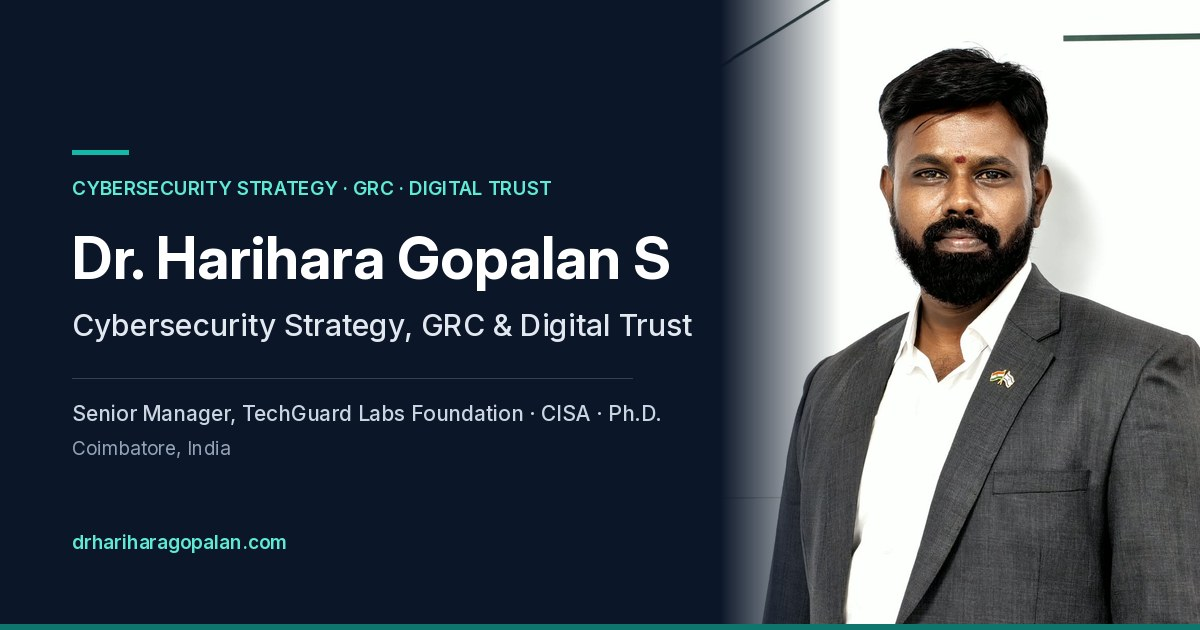
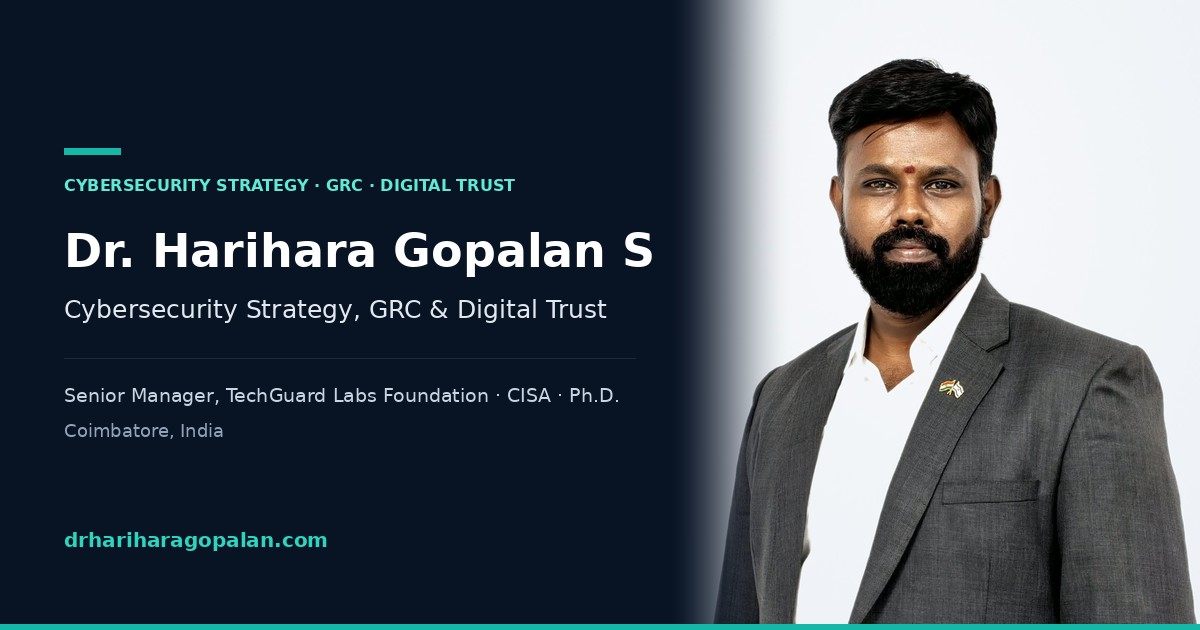
Use plain studio portrait backdrop and recent OWASP chapter guest photo

diff --git a/src/data/profile.ts b/src/data/profile.ts
@@ -200,7 +200,7 @@ export const EDUCATION = [
   { degree: 'B.Tech, Information Technology', specialization: 'Information Technology', institution: 'Sri Ramakrishna Engineering College', years: '2001 – 2004' },
 ];
 
-export type EventRole = 'Industry Representative' | 'Industry Delegate' | 'Speaker' | 'Operations Leadership';
+export type EventRole = 'Valedictory Guest' | 'Industry Representative' | 'Industry Delegate' | 'Speaker' | 'Operations Leadership' | 'Host Team';
 
 export interface IndustryEvent {
   name: string;
@@ -218,36 +218,18 @@ export interface IndustryEvent {
 // Roles are stated exactly — attendee/representative roles are never presented as keynotes.
 export const INDUSTRY_EVENTS: IndustryEvent[] = [
   {
-    name: 'Israel Cyber Day @ Bangalore',
-    date: '7 May 2026',
-    host: 'Four Seasons Embassy One, Bangalore · Israel Economic & Trade Mission to South India',
-    role: 'Industry Representative',
-    roleDetail: 'Industry Representative (TechGuard Labs Foundation)',
+    name: 'SREC Cyber Week Valedictory — OWASP SREC Chapter',
+    date: 'Oct 2026',
+    host: 'Sri Ramakrishna Engineering College · OWASP SREC Chapter',
+    role: 'Valedictory Guest',
+    roleDetail: 'Invited Guest — Valedictory Ceremony (3rd consecutive year)',
     summary:
-      'Represented TechGuard Labs Foundation in B2B sessions and roundtables alongside global Israeli cybersecurity leaders and Indian industry stakeholders, including engagements with the Consul General of Israel (Ms. Orit Weitzman) and the Economic Attaché of Israel.',
-  },
-  {
-    name: 'CII Check Post ’26 — Cyber Security Conclave (3rd Edition)',
-    date: 'Jul 2026',
-    host: 'Confederation of Indian Industry (CII), Coimbatore',
-    role: 'Industry Delegate',
-    roleDetail: 'Industry Delegate (TechGuard Labs Foundation)',
-    summary:
-      'Represented TechGuard Labs Foundation at CII’s regional cybersecurity conclave themed “The Cyber Divide: Turning Digital Risk into Business Resilience”, featuring keynotes from the Director General of CERT-In and Reliance Industries’ Group CISO.',
-  },
-  {
-    name: 'ISEA–CISO Leadership Meet 2026',
-    date: 'Mar 2026',
-    host: 'Chennai · C-DAC, ISEA Project, Ministry of Electronics & IT (MeitY)',
-    role: 'Speaker',
-    roleDetail: 'Speaker',
-    topic: 'Cyber Resilience in the Era of AI-Driven Threats for CISOs',
-    summary: 'Session for CISOs and security leaders on building cyber resilience against AI-driven threats.',
+      'Returned as invited guest for the Cyber Week valedictory ceremony for the third consecutive year — this time from industry — celebrating student-led cybersecurity initiatives alongside chapter members and faculty coordinators.',
     photo: {
-      src: '/speaking-isea-ciso-2026.jpg',
-      alt: 'Dr. Harihara Gopalan S speaking at the ISEA–CISO Leadership Meet 2026, Chennai',
-      width: 1200,
-      height: 798,
+      src: '/speaking-owasp-cyberweek-2026.jpg',
+      alt: 'Dr. Harihara Gopalan S as invited guest at the OWASP SREC Chapter Cyber Week valedictory ceremony, Oct 2026',
+      width: 1146,
+      height: 777,
     },
   },
   {
@@ -260,6 +242,24 @@ export const INDUSTRY_EVENTS: IndustryEvent[] = [
     summary: 'Practical cyber resilience and the evolving threat landscape for business leaders and entrepreneurs.',
   },
   {
+    name: 'CII Check Post ’26 — Cyber Security Conclave (3rd Edition)',
+    date: 'Jul 2026',
+    host: 'Confederation of Indian Industry (CII), Coimbatore',
+    role: 'Industry Delegate',
+    roleDetail: 'Industry Delegate (TechGuard Labs Foundation)',
+    summary:
+      'Represented TechGuard Labs Foundation at CII’s regional cybersecurity conclave themed “The Cyber Divide: Turning Digital Risk into Business Resilience”, featuring keynotes from the Director General of CERT-In and Reliance Industries’ Group CISO.',
+  },
+  {
+    name: 'TechGuard Labs Foundation Open Day',
+    date: '23 Jun 2026',
+    host: 'SREC SPARK, Coimbatore · TechGuard Labs Foundation',
+    role: 'Host Team',
+    roleDetail: 'Organising Leadership Team (TechGuard Labs Foundation)',
+    summary:
+      'Hosted an open day connecting aspiring security professionals with cybersecurity career pathways, practitioner insights and the Ariel University Master’s programme.',
+  },
+  {
     name: 'TechGuard Labs Coimbatore Office Inauguration',
     date: '15 May 2026',
     host: 'SREC SPARK, Coimbatore · SNR Board of Trustees & Ariel University',
@@ -267,6 +267,24 @@ export const INDUSTRY_EVENTS: IndustryEvent[] = [
     roleDetail: 'Invested as Senior Manager leading Coimbatore operations',
     summary:
       'Formally invested as Senior Manager to lead Coimbatore office operations at the launch presided over by the SNR Board of Trustees, marking the first project agreement with SRH Coimbatore with addresses from the Israel Economic Mission to South India and Ariel University.',
+  },
+  {
+    name: 'Israel Cyber Day @ Bangalore',
+    date: '7 May 2026',
+    host: 'Four Seasons Embassy One, Bangalore · Israel Economic & Trade Mission to South India',
+    role: 'Industry Representative',
+    roleDetail: 'Industry Representative (TechGuard Labs Foundation)',
+    summary:
+      'Represented TechGuard Labs Foundation in B2B sessions and roundtables alongside global Israeli cybersecurity leaders and Indian industry stakeholders, including engagements with the Consul General of Israel (Ms. Orit Weitzman) and the Economic Attaché of Israel.',
+  },
+  {
+    name: 'ISEA–CISO Leadership Meet 2026',
+    date: 'Mar 2026',
+    host: 'Chennai · C-DAC, ISEA Project, Ministry of Electronics & IT (MeitY)',
+    role: 'Speaker',
+    roleDetail: 'Speaker',
+    topic: 'Cyber Resilience in the Era of AI-Driven Threats for CISOs',
+    summary: 'Session for CISOs and security leaders on building cyber resilience against AI-driven threats.',
   },
 ];
 
@@ -277,12 +295,6 @@ export const SPEAKING = [
     event: 'AICTE VAANI Workshop on Cyber Security, Ethical AI & Smart Digital Defense',
     host: 'KPR Institute of Engineering and Technology',
     date: '28–30 Sep 2026',
-  },
-  {
-    title: 'Valedictory Guest — third consecutive year',
-    event: 'SREC Cyber Week Valedictory',
-    host: 'Sri Ramakrishna Engineering College · OWASP SREC Chapter',
-    date: 'Oct 2026',
   },
   {
     title: 'AI and Cybersecurity',

diff --git a/src/components/Speaking.tsx b/src/components/Speaking.tsx
@@ -3,10 +3,12 @@ import { INDUSTRY_EVENTS, SPEAKING, EARLIER_SPEAKING, RECOMMENDATIONS, type Even
 import { Reveal, SectionHeader } from './Reveal';
 
 const roleStyle: Record<EventRole, { cls: string; icon: typeof Mic }> = {
+  'Valedictory Guest': { cls: 'bg-teal-400/15 text-teal-200 ring-teal-300/30', icon: Presentation },
   Speaker: { cls: 'bg-teal-400/15 text-teal-200 ring-teal-300/30', icon: Mic },
   'Industry Representative': { cls: 'bg-steel-400/15 text-sky-200 ring-sky-300/30', icon: Building2 },
   'Industry Delegate': { cls: 'bg-steel-400/15 text-sky-200 ring-sky-300/30', icon: Users },
   'Operations Leadership': { cls: 'bg-amber-300/10 text-amber-200 ring-amber-200/30', icon: Handshake },
+  'Host Team': { cls: 'bg-amber-300/10 text-amber-200 ring-amber-200/30', icon: Building2 },
 };
 
 const RoleBadge = ({ role }: { role: EventRole }) => {
